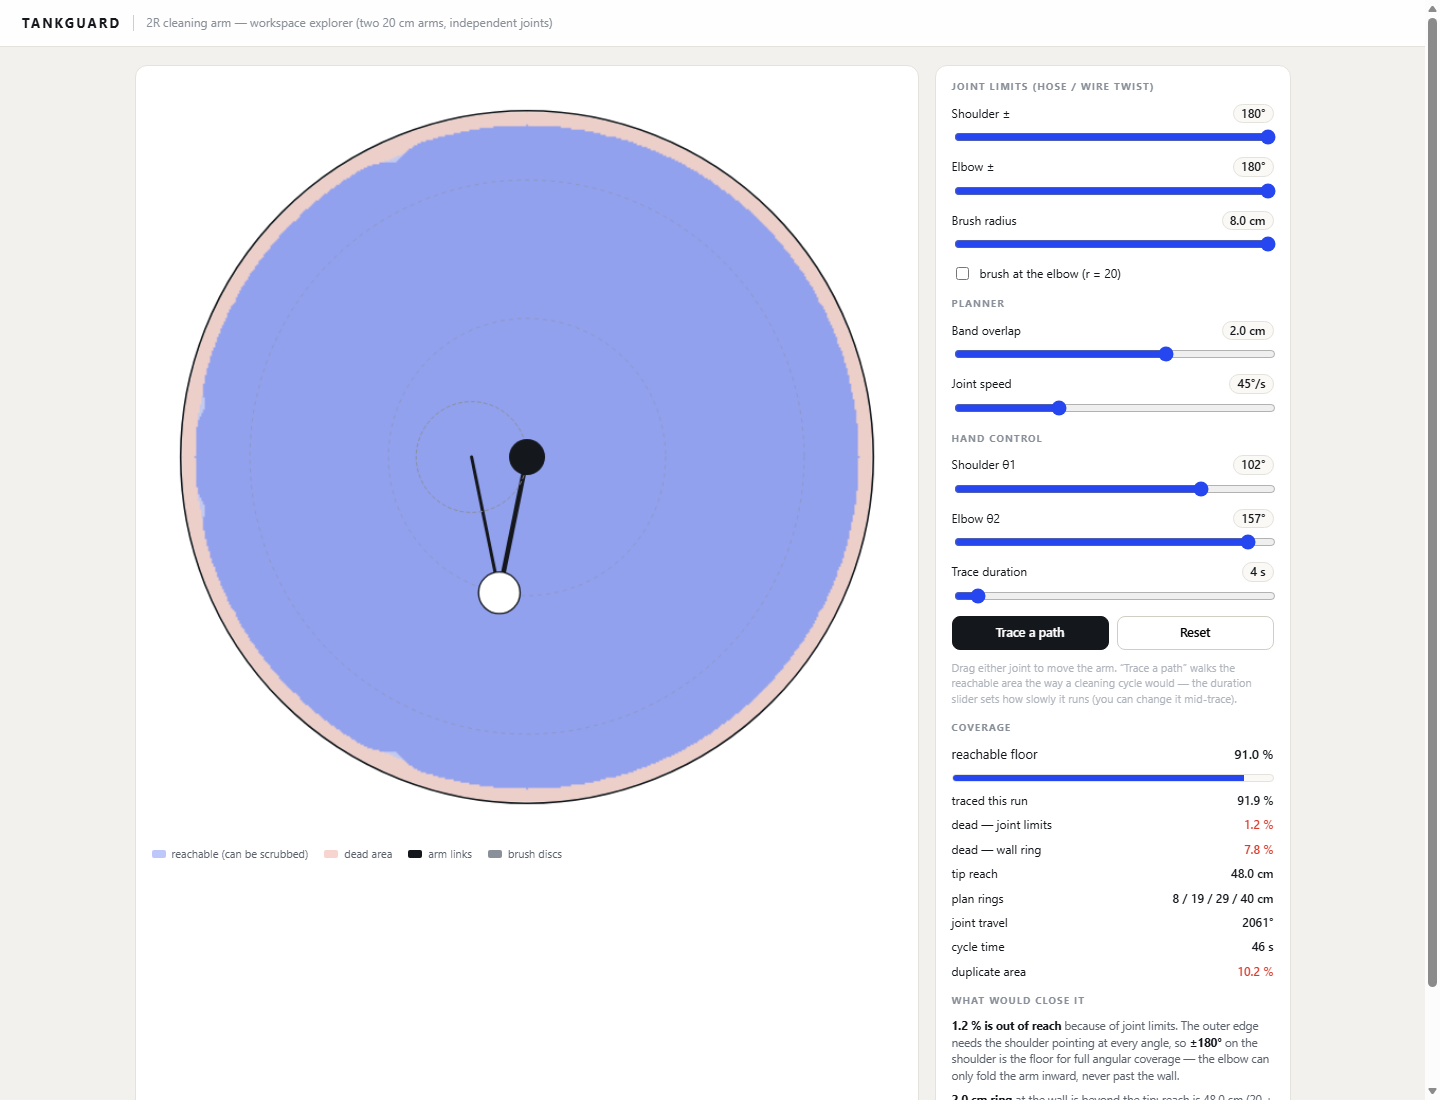
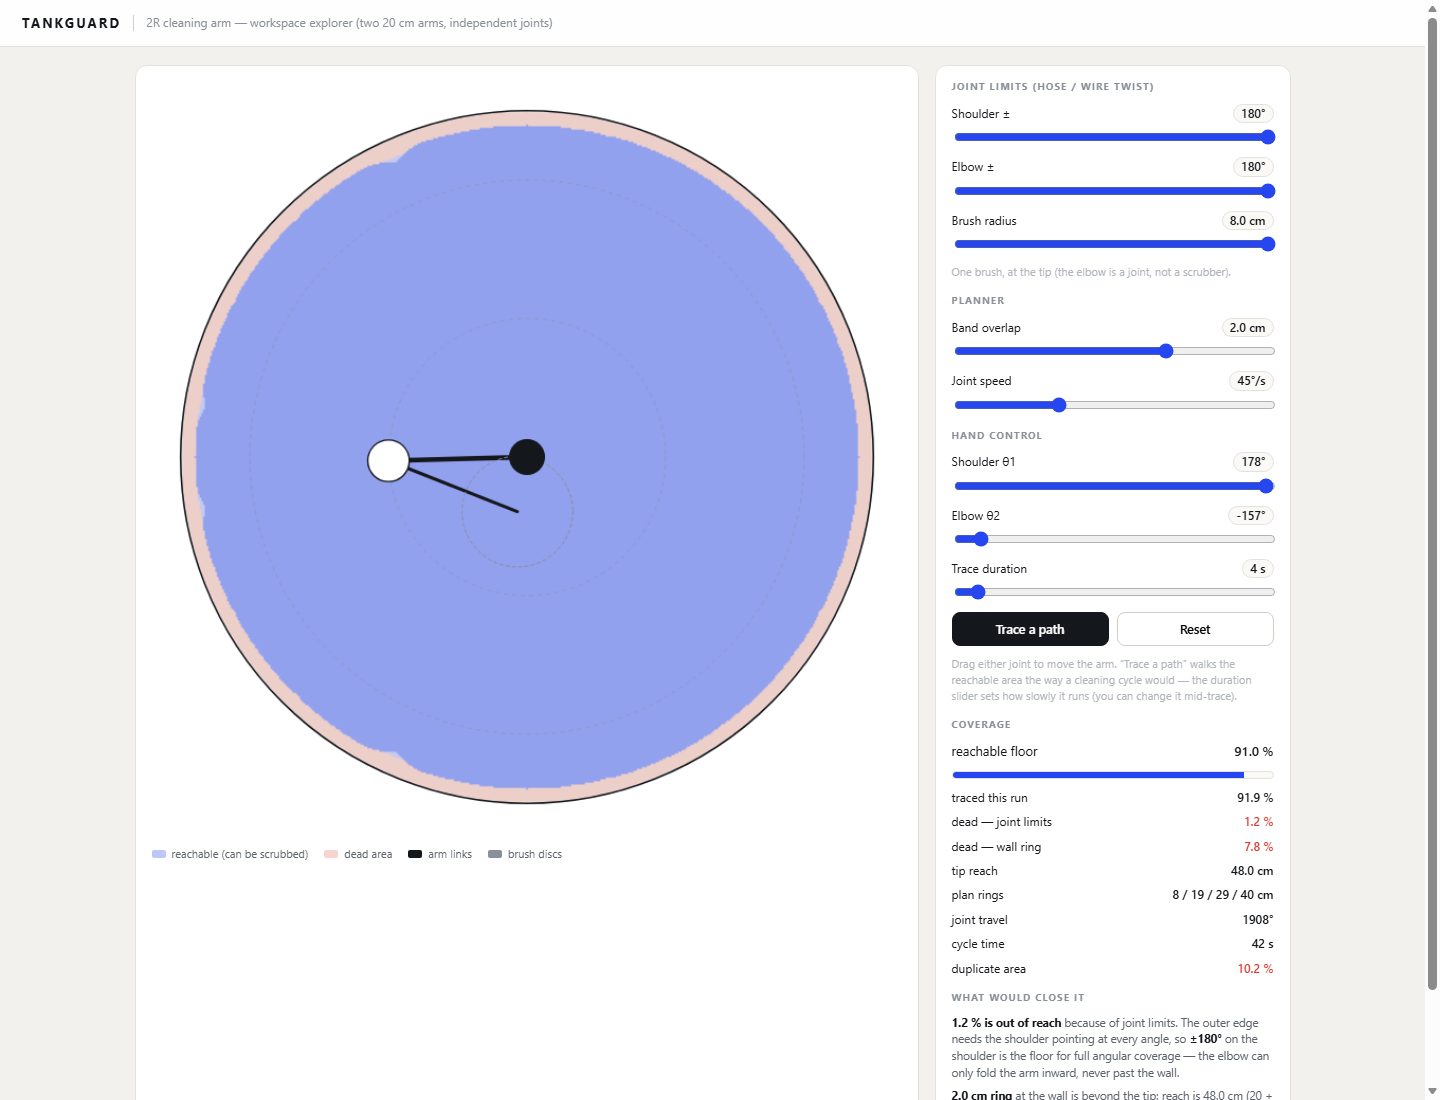
fix(tools): single tip brush — the elbow is a joint, not a second scrubber

Changed region(s): [[0.6562, 0.2473, 0.9062, 1.0], [0.25, 0.4018, 0.375, 0.5564], [0.8125, 0.7418, 0.875, 0.8655]]

diff --git a/tools/swept_area.html b/tools/swept_area.html
@@ -86,7 +86,7 @@
         <span class="ctl-head">Brush radius <output id="o-brush">8.0 cm</output></span>
         <input id="i-brush" type="range" min="2" max="8" step="0.5" value="8">
       </label>
-      <label class="check"><input id="i-elbow" type="checkbox"> brush at the elbow (r = 20)</label>
+      <span class="hint">One brush, at the tip (the elbow is a joint, not a scrubber).</span>
     </div>
 
     <div class="group">
@@ -161,11 +161,10 @@ const px = (cm) => (cm + LIM) * scale;
 const deg = (r) => (r * 180) / Math.PI;
 const rad = (d) => (d * Math.PI) / 180;
 
-const state = { l1: 180, l2: 180, brush: 8, elbowBrush: false, t1: 0, t2: 0, traced: 0, running: false, traceDur: 12, margin: 0, jointSpeed: 45 };
+const state = { l1: 180, l2: 180, brush: 8, t1: 0, t2: 0, traced: 0, running: false, traceDur: 12, margin: 0, jointSpeed: 45 };
 
 const inTank = new Uint8Array(N * N);
 const tipOk = new Uint8Array(N * N);
-const elbowOk = new Uint8Array(N * N);
 const covered = new Uint8Array(N * N);
 const traced = new Uint8Array(N * N);
 let dist = new Float32Array(N * N);
@@ -193,7 +192,6 @@ function ik(x, y) {
 function buildWorkspace() {
   const b = state.brush;
   tipOk.fill(0);
-  elbowOk.fill(0);
 
   // tip reachability: any IK solution inside both joint limits
   for (let j = 0; j < N; j++) {
@@ -211,13 +209,6 @@ function buildWorkspace() {
     }
   }
 
-  // elbow brush: an arc of radius L1 swept by the shoulder
-  const steps = Math.max(8, Math.round((2 * state.l1) / 1.5));
-  for (let s = 0; s <= steps; s++) {
-    const a = rad(-state.l1 + (2 * state.l1 * s) / steps);
-    const ex = L1 * Math.cos(a), ey = L1 * Math.sin(a);
-    stampDisc(elbowOk, ex, ey, b);
-  }
 
   // dilate the tip set by the brush radius (chamfer distance transform)
   dist = new Float32Array(N * N);
@@ -250,8 +241,7 @@ function buildWorkspace() {
 
   const bCells = b / RES;
   for (let k = 0; k < covered.length; k++) {
-    const tip = dist[k] * RES <= b;
-    covered[k] = tip || (state.elbowBrush && elbowOk[k]) ? 1 : 0;
+    covered[k] = dist[k] * RES <= b ? 1 : 0;
   }
 }
 
@@ -324,7 +314,6 @@ function draw() {
 
   ctx.setLineDash([3, 3]); ctx.strokeStyle = "#8a9099"; ctx.lineWidth = 1;
   ctx.beginPath(); ctx.arc(px(p.x), px(p.y), state.brush * scale, 0, 2 * Math.PI); ctx.stroke();
-  if (state.elbowBrush) { ctx.beginPath(); ctx.arc(px(p.ex), px(p.ey), state.brush * scale, 0, 2 * Math.PI); ctx.stroke(); }
   ctx.setLineDash([]);
 
   ctx.fillStyle = "#14171b";
@@ -417,10 +406,6 @@ bind("i-l1", "l1", (v) => v + "°");
 bind("i-l2", "l2", (v) => v + "°");
 bind("i-brush", "brush", (v) => v.toFixed(1) + " cm");
 
-document.getElementById("i-elbow").addEventListener("change", (e) => {
-  state.elbowBrush = e.target.checked;
-  rebuild();
-});
 
 const t1El = document.getElementById("i-t1");
 const t2El = document.getElementById("i-t2");
@@ -530,13 +515,9 @@ function buildPlan() {
     }
   }
 
-  // duplicate area: elbow brush (if on) + overlap margin between rings
+  // duplicate area: overlap margin between rings
   const floor = Math.PI * TANK_R ** 2;
   let dup = 0;
-  if (state.elbowBrush) {
-    const lo = Math.max(0, L1 - state.brush), hi = L1 + state.brush;
-    dup += Math.PI * (hi ** 2 - lo ** 2);
-  }
   if (state.margin > 0 && rings.length > 1) {
     for (let k = 1; k < rings.length; k++) dup += 2 * Math.PI * (rings[k] - state.brush) * state.margin;
   }
@@ -577,7 +558,6 @@ document.getElementById("run").addEventListener("click", () => {
       const s = poses[idx];
       last = s;
       const a1 = rad(s.t1), a2 = rad(s.t1 + s.t2);
-      stampDisc(traced, L1 * Math.cos(a1), L1 * Math.sin(a1), state.brush);
       stampDisc(traced, L1 * Math.cos(a1) + L2 * Math.cos(a2), L1 * Math.sin(a1) + L2 * Math.sin(a2), state.brush);
     }
     if (progress < 1) {

diff --git a/docs/CLEANER.md b/docs/CLEANER.md
@@ -17,21 +17,21 @@ guesses.
   - **link 1 (shoulder)** pivots on the pipe, θ1;
   - **link 2 (elbow)** pivots on the motor at the end of link 1, θ2, and is driven
     independently.
-- A **brush at each end**: one at the elbow (r = 20 cm), one at the tip
-  (r = 0–40 cm depending on the elbow angle).
-- Assembly tree: `Rigid 4` (brush mounts), `Revolute 3` (the elbow) and
+- A **single brush at the tip** (r = 0–40 cm depending on the elbow angle). The
+  elbow is a joint — a motor, not a scrubber.
+- Assembly tree: `Rigid 4` (brush mount), `Revolute 3` (the elbow) and
   `Revolute 1` (the shoulder), body `mainarm`.
 
-**Motion implied:** a planar 2R arm. The tip reaches any point with r ≤ 40 cm;
-both joints oscillate inside their own limits (the hose and wires must not wind
-up), so the *reachable* floor depends on those limits — that is the dead-area
-question, and `tools/swept_area.html` solves it numerically.
+**Motion implied:** a planar 2R arm with one scrubber at the tip. The tip reaches
+any point with r ≤ 40 cm; both joints oscillate inside their own limits (the hose
+and wires must not wind up), so the *reachable* floor depends on those limits —
+that is the dead-area question, and `tools/swept_area.html` solves it numerically.
 
 | axis | joint | job |
 |---|---|---|
 | shoulder | Revolute 1 | swing the whole arm; ±L1 |
 | elbow | Revolute 3 | fold the second link; ±L2 |
-| brush 1 / brush 2 | Rigid 4 | scrub, independently |
+| brush | Rigid 4 | the only scrubber, at the tip |
 
 Open: which revolute is the sweep vs the fold, and whether the pipe is also a
 linear axis (the CAD shows it fixed).
@@ -48,7 +48,7 @@ motors, no cables, no slip ring in the water; the rotary seal lives at the lid.
 | given | value | derived |
 |---|---|---|
 | tank radius | 50 cm | floor area 7,854 cm² |
-| link 1 (shoulder) | 20 cm fixed | elbow brush at r = 20 cm |
+| link 1 (shoulder) | 20 cm fixed | elbow joint at r = 20 cm |
 | link 2 (elbow) | 20 cm fixed | tip at r = 0–40 cm depending on θ2 |
 | brush heads | ⌀ 16 cm (radius 8, the build maximum) | outer edge reaches **r = 48 cm** |
 | **unreachable ring** | **r = 48–50 cm (2 cm)** | **616 cm² = 7.8 % of the floor** |
@@ -278,12 +278,12 @@ Planner output (both joints ±180°, elbow brush off):
 
 Two findings the planner makes obvious:
 
-1. **The elbow brush is pure duplication at ⌀16.** It scrubs 12–28 cm, which the
-   r = 8 and r = 24 rings already cover — **25.6 % of the floor cleaned twice**.
-   Drop it (one less motor, one less cable) or the cycle wastes a quarter of its
-   time.
+1. **The tip brush alone closes the tiling.** Rings at 8 / 24 / 40 scrub
+   0–48 cm with no gaps and no overlap — a second brush at the elbow would
+   scrub 12–28 cm again (25.6 % of the floor twice) for nothing. One brush is
+   both simpler and faster.
 2. **Overlap margin is expensive.** A 2 cm margin pushes the plan to four rings
-   (8 / 19 / 29 / 40 cm), +14 % joint travel and **10.2 % duplicate area** — for
+   (8 / 19 / 29 / 40 cm), +6 % joint travel and **10.2 % duplicate area** — for
    no coverage gain. Keep the margin at 0 and rely on the brush's compliance.
 
 The planner also splits each ring into arcs wherever a joint limit or an elbow
